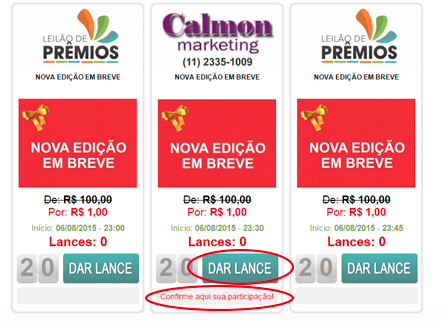
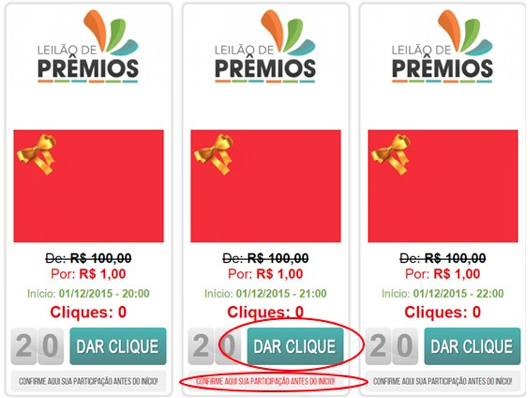
lances -> clique

diff --git a/_includes/footer.html b/_includes/footer.html
@@ -11,7 +11,7 @@
                         <p>O primeiro passo para participar do leilão é escolher a cidade.</p>
                         <p>Após escolher a cidade, no lado direito superior no botão <strong>"CLIQUE AQUI E FAÇA O SEU CADASTRO"</strong> Faça o seu cadastro preenchendo todos os campos obrigatório.</p>
                         <p>Leia atentamente o termos e condições gerais para utilização do site.</p>
-                        <p>Após confirmar o cadastro, o site irá enviar para o seu e-mail cadastrado um link de confirmação. Você terá que abrir esse e-mail e clickar no link indicado pelo e-mail para que o seu cadastro seja confirmado. Caso o e-mail não esteja na sua caixa de entrada, verifique na sua caixa de lixo.</p>
+                        <p>Após confirmar o cadastro, você já estará pronto para acessar sua conta.</p>
                         
                         <p><strong>Em menos de 1 minuto você entra no melhor site de promoção Comercial!</strong></p>
                     </div>
@@ -19,12 +19,12 @@
                 <div class="row hide" data-step="2" data-title="Como conseguir lances">
                     <div class="col-md-6">
                         <h4>Comprando nas empresas participantes</h4>
-                        <p>Comprando nas empresas participantes você recebe um cupom. Cada cupom cadastrado no site irá creditar 5 lances no saldo de sua conta. Basta raspar a raspadinha no verso do cupom e validar o número.</p>
+                        <p>Comprando nas empresas participantes você recebe um cupom. Cada cupom cadastrado no site irá creditar 5 cliques no saldo de sua conta. Basta raspar a raspadinha no verso do cupom e validar o número.</p>
                         <img src="/images/cupom.jpg" width="100%">
                     </div>
                     <div class="col-md-6">
                         <h4>Publiclick</h4>
-                        <p>No Publiclick, você ganha gratuitamente 5 lances por dia para clicar e visitar o hotsite das empresas parceiras do Leilão de Prêmios.</p>
+                        <p>No Publiclick, você ganha gratuitamente 5 cliques por dia para clicar e visitar o hotsite das empresas parceiras do Leilão de Prêmios.</p>
                         <img src="/images/publiclick.jpg" width="100%" class="padding-top-50">
                     </div>
                 </div>
@@ -32,28 +32,24 @@
                     <div class="col-md-12">
                         <center><img width="80%" src="/images/ativar_participacao.jpg"></center>
                         <p><strong>1</strong> Escolha o leilão que gostaria de disputar.</p>
-                        <p><strong>2</strong> Clique na opção "DAR LANCE" dentro do banner do leilão que você escolheu.</p>
+                        <p><strong>2</strong> Clique na opção "DAR CLIQUE" dentro do banner do leilão que você escolheu.</p>
                         <p><strong>3</strong> Irá aparecer nesse momento uma frase dizendo "<strong>CONFIRME AQUI SUA PARTICIPAÇÃO</strong>", clique em cima dessa opção.</p>
                     </div>
                 </div>
                 <div class="row hide" data-step="4" data-title="Confirme sua participação antes do horário de início do leilão escolhido.">
                     <div class="col-md-12">
-                    <p>É extremamente importante nesse momento você ler na parte inferior da página, a descrição completa do produto ou serviço, 
-                    para estar ciente de todas as características técnicas, requisitos e informações adicionais para que você possa arrematá-lo. Se estiver de acordo, clique novamente na opção "<strong>CONFIRME AQUI SUA PARTICIPAÇÃO</strong>".</p>
+                    <p>É extremamente importante nesse momento você ler na parte inferior da página, a descrição completa do produto ou serviço, para estar ciente de todas as características técnicas, requisitos e informações adicionais para que você possa arrematá-lo. Se estiver de acordo, clique novamente na opção  "<strong>CONFIRME AQUI SUA PARTICIPAÇÃO</strong>".</p>
                         <img src="/images/confirme-aqui.jpg" width="100%">
-                     <p>Pronto, agora é só esperar a data e horário marcado para o leilão e dar seus lances.</p>
+                     <p>Pronto, agora é só esperar a data e horário marcado para o leilão e dar seus cliques.</p>
                     </div>
-                    <!-- <div class="col-md-12">
-                        <img src="images/como-funciona-o-leilao.jpg" width="100%">
-                    </div> -->
                 </div>
                 <div class="row hide" data-step="5" data-title="Como funciona o Leilão">
                     <div class="col-md-12">
                      <img src="/images/como-funciona-o-leilao.jpg" width="100%">
-                     <p>Em cada leilão escolhido você poderá dar no <strong>máximo 5 lances</strong> na opção "DAR LANCE".</p>
-                     <p>Quando você ativa sua participação em um leilão, será transferido 5 lances do seu saldo para o leilão escolhido.</p>
+                     <p>Em cada leilão escolhido você poderá dar no <strong>máximo 5 clique</strong> na opção "DAR CLIQUE".</p>
+                     <p>Quando você ativa sua participação em um leilão, será transferido 5 cliques do seu saldo para o leilão escolhido.</p>
                      <p>Na data e horário informado no banner o leilão começa e um cronômetro é disparado em contagem regressiva iniciando em 20 segundos.</p>
-                     <p>Quando um usuário clicar na opção "DAR LANCE" o cronômetro recomeça nos 20 segundos e o apelido do usuário, cadastrado no site, irá aparecer na parte de baixo do banner.</p>
+                     <p>Quando um usuário clicar na opção "DAR CLIQUE" o cronômetro recomeça nos 20 segundos e o apelido do usuário, cadastrado no site, irá aparecer na parte de baixo do banner.</p>
                      <p><strong>O Leilão irá terminar quando o cronômetro chegar a zero</strong> e isso só acontece quando não houver mais nenhum lance nesse produto.</p>
                     </div>
                 </div>
@@ -61,10 +57,9 @@
                 <div class="row hide" data-step="6" data-title="Dicas do Leilão de Prêmios">
                     <div class="col-md-12">
                      <p class="text-center"><strong>Não deixe para dar lance nos segundos finais</strong></p>
-                     <p>Imagine que ao dar seu lance, ele percorrerá um longo caminho pela internet até chegar em nossos servidores. Nesse trajeto pode haver qualquer atraso, comum à internet, fazendo com que seu lance não seja computado. Caso adote a estratégia de dar os lances somente no final, o faça antes dos 3 segundos. Lembre-se que o cronômetro sempre regressa ao seu valor inicial, sendo o lance dado no começo ou no fim.</p>
-                     <p class="text-center"><strong>Não desperdice sua conexão de internet ou seu
-                        computador com outras atividades</strong></p>
-                     <p>Quando estiver participando ou acompanhando algum leilão, feche todos os outros programas, como messengers, players, jogos, compartilhadores, etc. Deixe somente uma aba aberta no seu navegador. Utilize sempre uma versão atualizada de seu navegador. O Leilão de Prêmios recomenda as últimas versões do Google Chrome e do Mozilla Firefox.</p>
+                     <p>Imagine que ao dar seu clique, ele percorrerá um longo caminho pela internet até chegar em nossos servidores. Nesse trajeto pode haver qualquer atraso, comum à internet, fazendo com que seu clique não seja computado. Caso adote a estratégia de dar os cliques somente no final, o faça antes dos 3 segundos. Lembre-se que o cronômetro sempre regressa ao seu valor inicial, sendo o clique dado no começo ou no fim.</p>
+                     <p class="text-center"><strong>Não desperdice sua conexão de internet ou seu computador com outras atividades</strong></p>
+                     <p>Quando estiver participando ou acompanhando algum leilão, feche todos os outros programas, como messenger, players, jogos, compartilhadores, etc. Deixe somente uma aba aberta no seu navegador. Utilize sempre uma versão atualizada de seu navegador. O Leilão de Prêmios recomenda as últimas versões do Google Chrome e do Mozilla Firefox.</p>
                     </div>
                 </div>
             </div>
